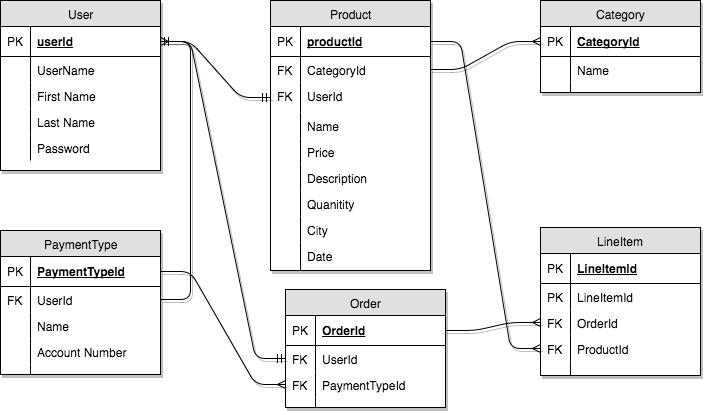
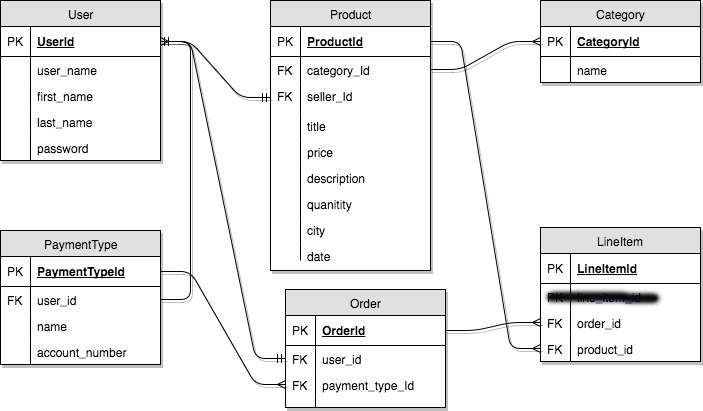
created the database models, added damnit_django file, added json file to add category data in fixtures.

diff --git a/website/models.py b/website/models.py
@@ -2,12 +2,73 @@ from django.contrib.auth.models import User
 from django.db import models
 
 # Create your models here.
+class Category(models.Model):
+    """
+    purpose: creates the category table in the database
+    author: James Tonkin
+    args: models.Model
+    returns: N/A
+    """
+    name = models.CharField(max_length = 255)
+
 class Product(models.Model):
+    """
+    purpose: creates the product table in the database
+    author: James Tonkin
+    args: models.Model
+    returns: N/A
+    """
+    category = models.ForeignKey(
+        Category,
+        on_delete = models.CASCADE,
+    )
     seller = models.ForeignKey(
         User,
-        on_delete=models.CASCADE,
+        on_delete = models.CASCADE,
     )
-    title = models.CharField(max_length=255)
-    description = models.TextField(blank=True, null=True)
+    title = models.CharField(max_length = 255)
     price = models.IntegerField()
+    description = models.TextField(blank = True, null = True)
     quantity = models.IntegerField()
+    city = models.CharField(max_length = 255)
+    date = models.DateField(max_length = 20)
+
+class PaymentType(models.Model):
+    """
+    purpose: creates the payment type table in the database
+    author: James Tonkin
+    args: models.Model
+    returns: N/A
+    """
+    user = models.ForeignKey(
+        User,
+        on_delete = models.CASCADE,
+    )
+    name = models.CharField(max_length = 255)
+    account_number = models.IntegerField()
+
+class Order(models.Model):
+    """
+    purpose: creates the order table in the database
+    author: James Tonkin
+    args: models.Model
+    returns: N/A
+    """
+    user = models.ForeignKey(
+        User,
+        on_delete = models.CASCADE,
+    )
+    payment_type_id = models.IntegerField()
+
+class LineItem(models.Model):
+    """
+    purpose: creates the lineitem table in the database
+    author: James Tonkin
+    args: models.Model
+    returns: N/A
+    """
+    order = models.ForeignKey(
+        User,
+        on_delete = models.CASCADE,
+    )
+    product = models.ForeignKey(Product)
